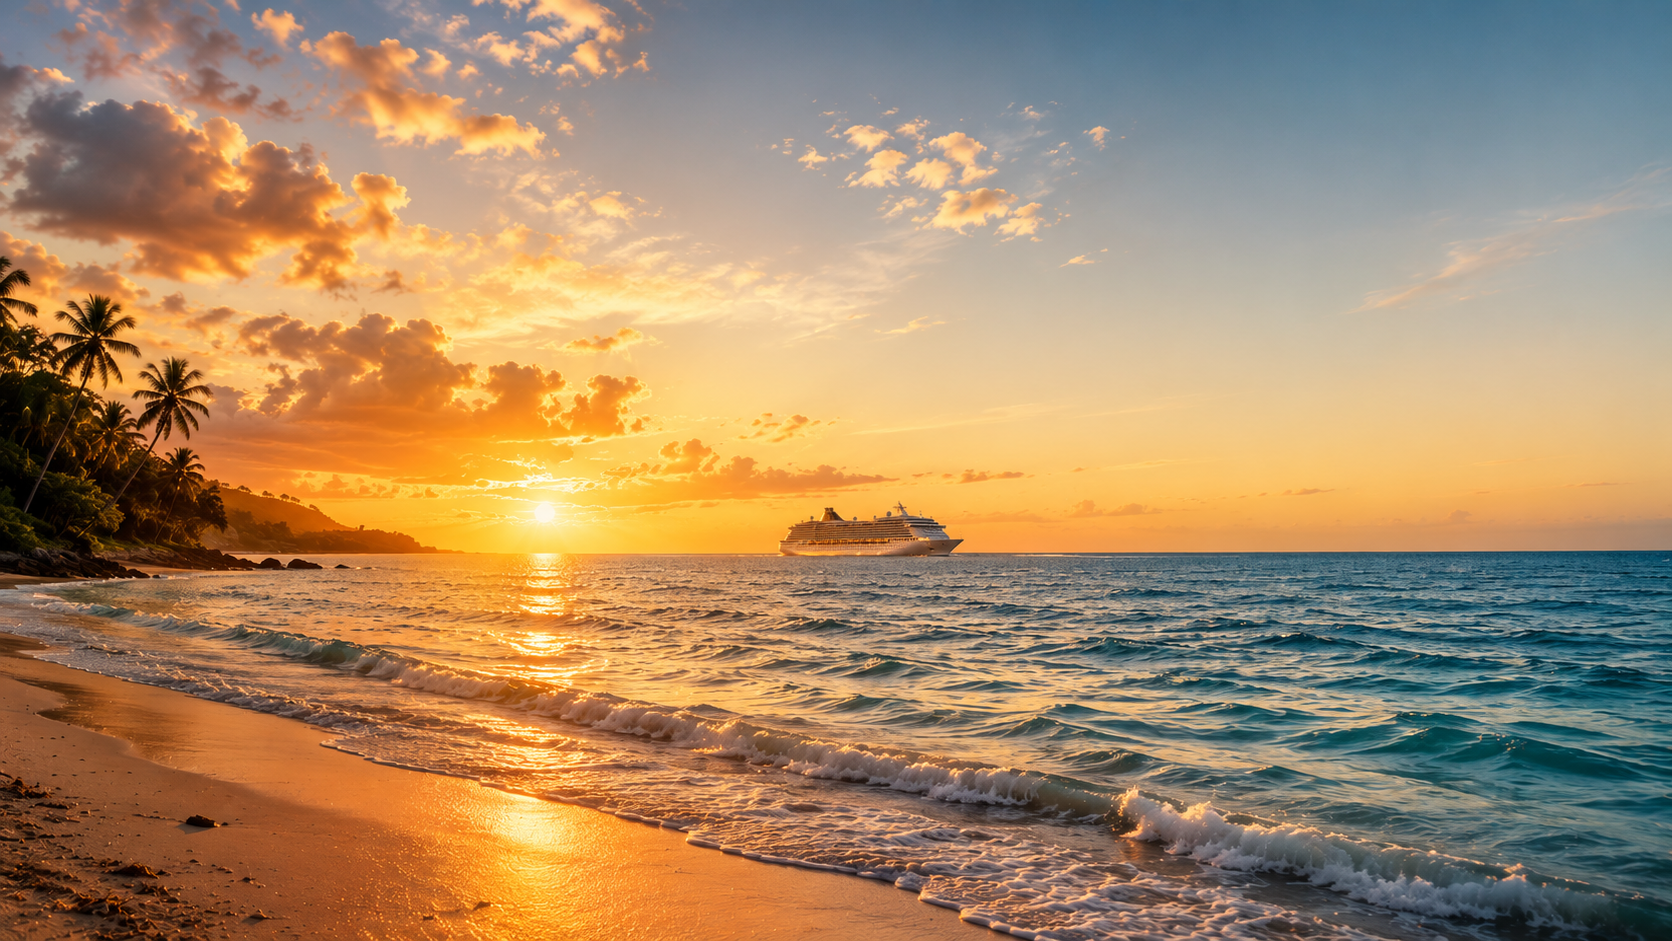
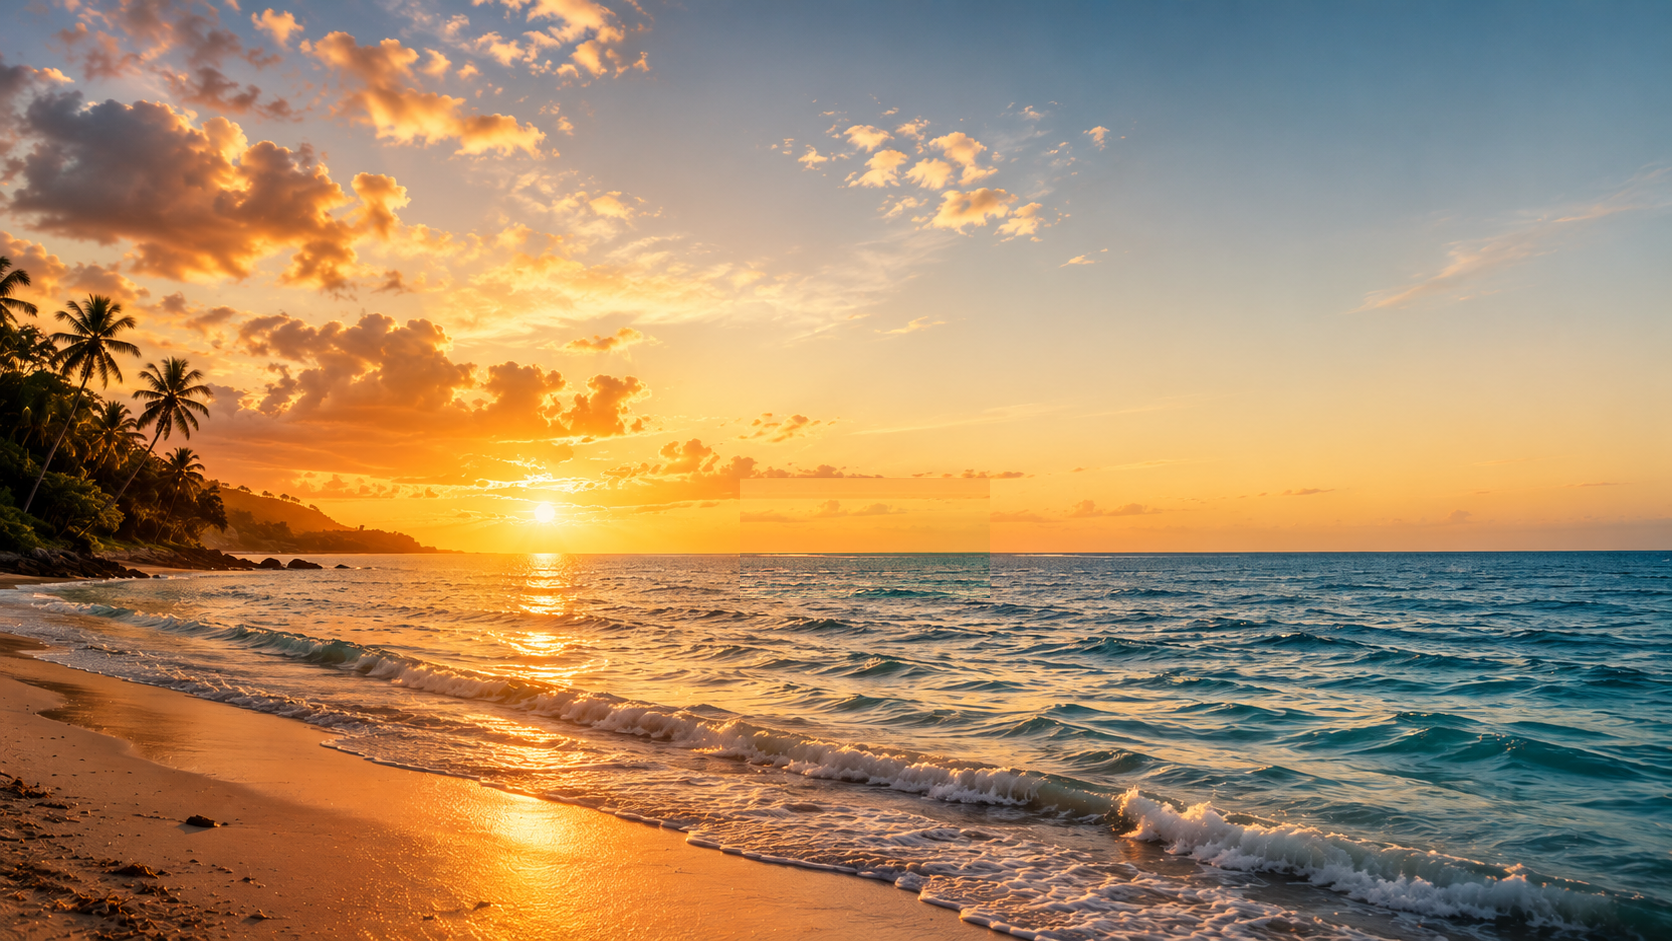
Bateau anime realiste dans le hero

Changed region(s): [[0.4354, 0.4931, 0.5909, 0.6472]]

diff --git a/landing-page/script.js b/landing-page/script.js
@@ -1,3 +1,51 @@
+// ================================
+// DATES DYNAMIQUES DES COMPARATIFS
+// Calcule automatiquement une periode de 7 nuits a partir
+// d'aujourd'hui, pour que les dates affichees ne soient jamais
+// depassees. Modifie ici pour changer le delai (actuellement 21
+// jours a partir d'aujourd'hui).
+// ================================
+(function () {
+    const MONTHS_FR = [
+        "janvier", "février", "mars", "avril", "mai", "juin",
+        "juillet", "août", "septembre", "octobre", "novembre", "décembre"
+    ];
+
+    const DAYS_FROM_NOW = 21;
+    const STAY_LENGTH_NIGHTS = 7;
+
+    const start = new Date();
+    start.setDate(start.getDate() + DAYS_FROM_NOW);
+
+    const end = new Date(start);
+    end.setDate(end.getDate() + STAY_LENGTH_NIGHTS);
+
+    function formatRange(start, end) {
+        const startDay = start.getDate();
+        const endDay = end.getDate();
+        const endMonth = MONTHS_FR[end.getMonth()];
+        const year = end.getFullYear();
+
+        if (start.getMonth() === end.getMonth()) {
+            return `${startDay} au ${endDay} ${endMonth} ${year}`;
+        }
+
+        const startMonth = MONTHS_FR[start.getMonth()];
+        return `${startDay} ${startMonth} au ${endDay} ${endMonth} ${year}`;
+    }
+
+    const range = formatRange(start, end);
+
+    document.querySelectorAll(".comparison-dates").forEach((el) => {
+        el.textContent = `${STAY_LENGTH_NIGHTS} nuits • 2 adultes • ${range}`;
+    });
+
+    const intro = document.querySelector(".comparison-intro");
+    if (intro) {
+        intro.textContent = `Même période pour les 3 séjours · ${STAY_LENGTH_NIGHTS} nuits · 2 adultes · du ${range}`;
+    }
+})();
+
 const openThomas = document.getElementById("openThomas");
 const thomasPanel = document.getElementById("thomas-panel");
 const closeThomas = document.querySelector("[data-close-thomas]");

diff --git a/landing-page/style.css b/landing-page/style.css
@@ -100,6 +100,12 @@ overflow: hidden;
             rgba(255,190,90,.18) 0%,
             rgba(255,190,90,0) 45%
         ),
+        radial-gradient(
+            ellipse 26% 20% at 52% 57%,
+            rgba(255,205,140,.35) 0%,
+            rgba(255,205,140,.16) 55%,
+            rgba(255,205,140,0) 100%
+        ),
         linear-gradient(
             to bottom,
             rgba(0,0,0,0) 45%,
@@ -110,12 +116,48 @@ overflow: hidden;
     z-index:1;
 
 }
+.sailing-boat{
+    position:absolute;
+    top:52%;
+    left:-340px;
+    width:260px;
+    z-index:1;
+    pointer-events:none;
+    opacity:.92;
+    filter:drop-shadow(0 6px 14px rgba(0,0,0,.35));
+    animation:sail-across 72s linear infinite;
+}
+.sailing-boat img{
+    width:100%;
+    height:auto;
+    display:block;
+}
+@keyframes sail-across{
+    0%{ transform:translateX(0) translateY(0); }
+    50%{ transform:translateX(calc(50vw + 160px)) translateY(-6px); }
+    100%{ transform:translateX(calc(100vw + 320px)) translateY(0); }
+}
+@media (max-width:600px){
+    .sailing-boat{
+        width:150px;
+        top:47%;
+        left:-200px;
+    }
+    @keyframes sail-across{
+        0%{ transform:translateX(0) translateY(0); }
+        50%{ transform:translateX(calc(50vw + 100px)) translateY(-4px); }
+        100%{ transform:translateX(calc(100vw + 200px)) translateY(0); }
+    }
+}
+
 .hero-content{
     display:flex;
     justify-content:space-between;
     align-items:center;
     width:100%;
     gap:60px;
+    position:relative;
+    z-index:2;
 }
 
 .hero-copy{

diff --git a/landing-page/index.html b/landing-page/index.html
@@ -44,6 +44,10 @@
 
         <div class="hero-overlay"></div>
 
+        <div class="sailing-boat" aria-hidden="true">
+            <img src="ship-card.png" alt="" loading="lazy">
+        </div>
+
        <nav class="navigation">
     <a class="brand" href="#" aria-label="Accueil JUZOVA">
         <img
